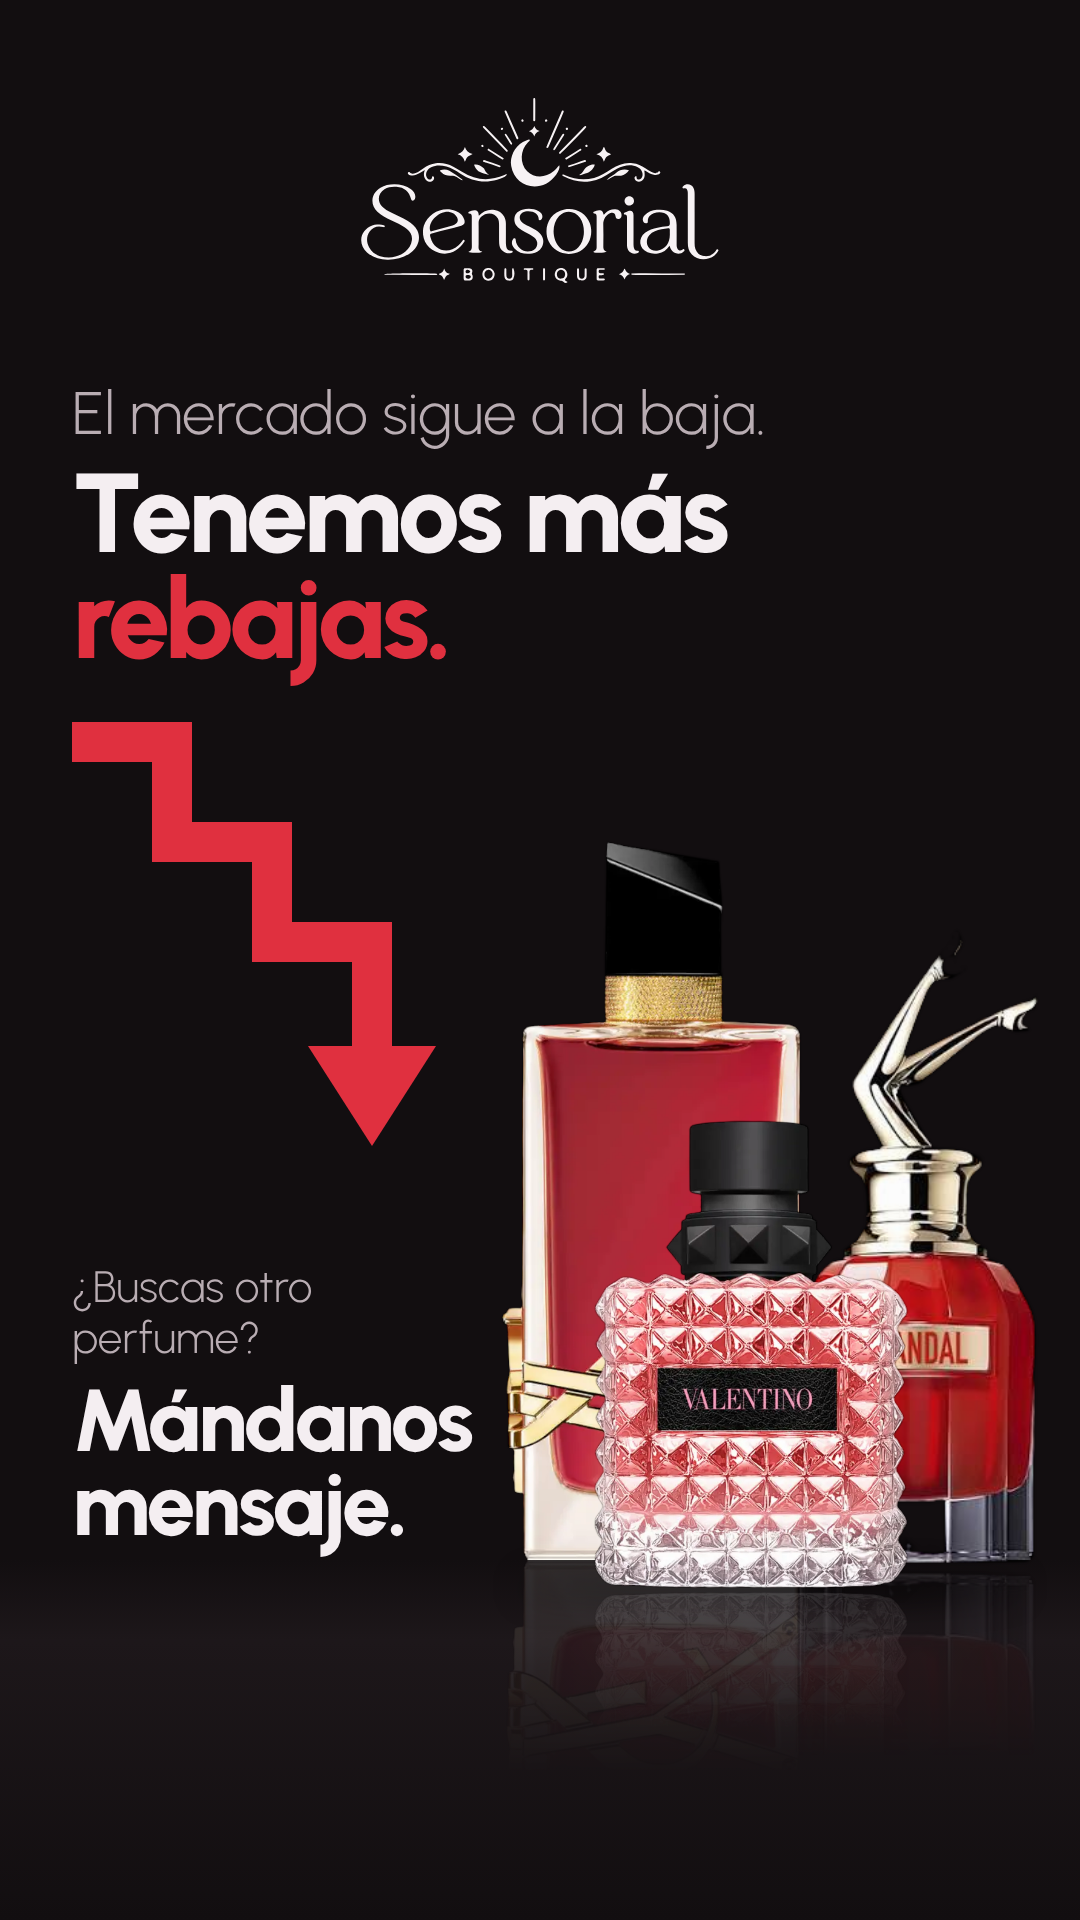
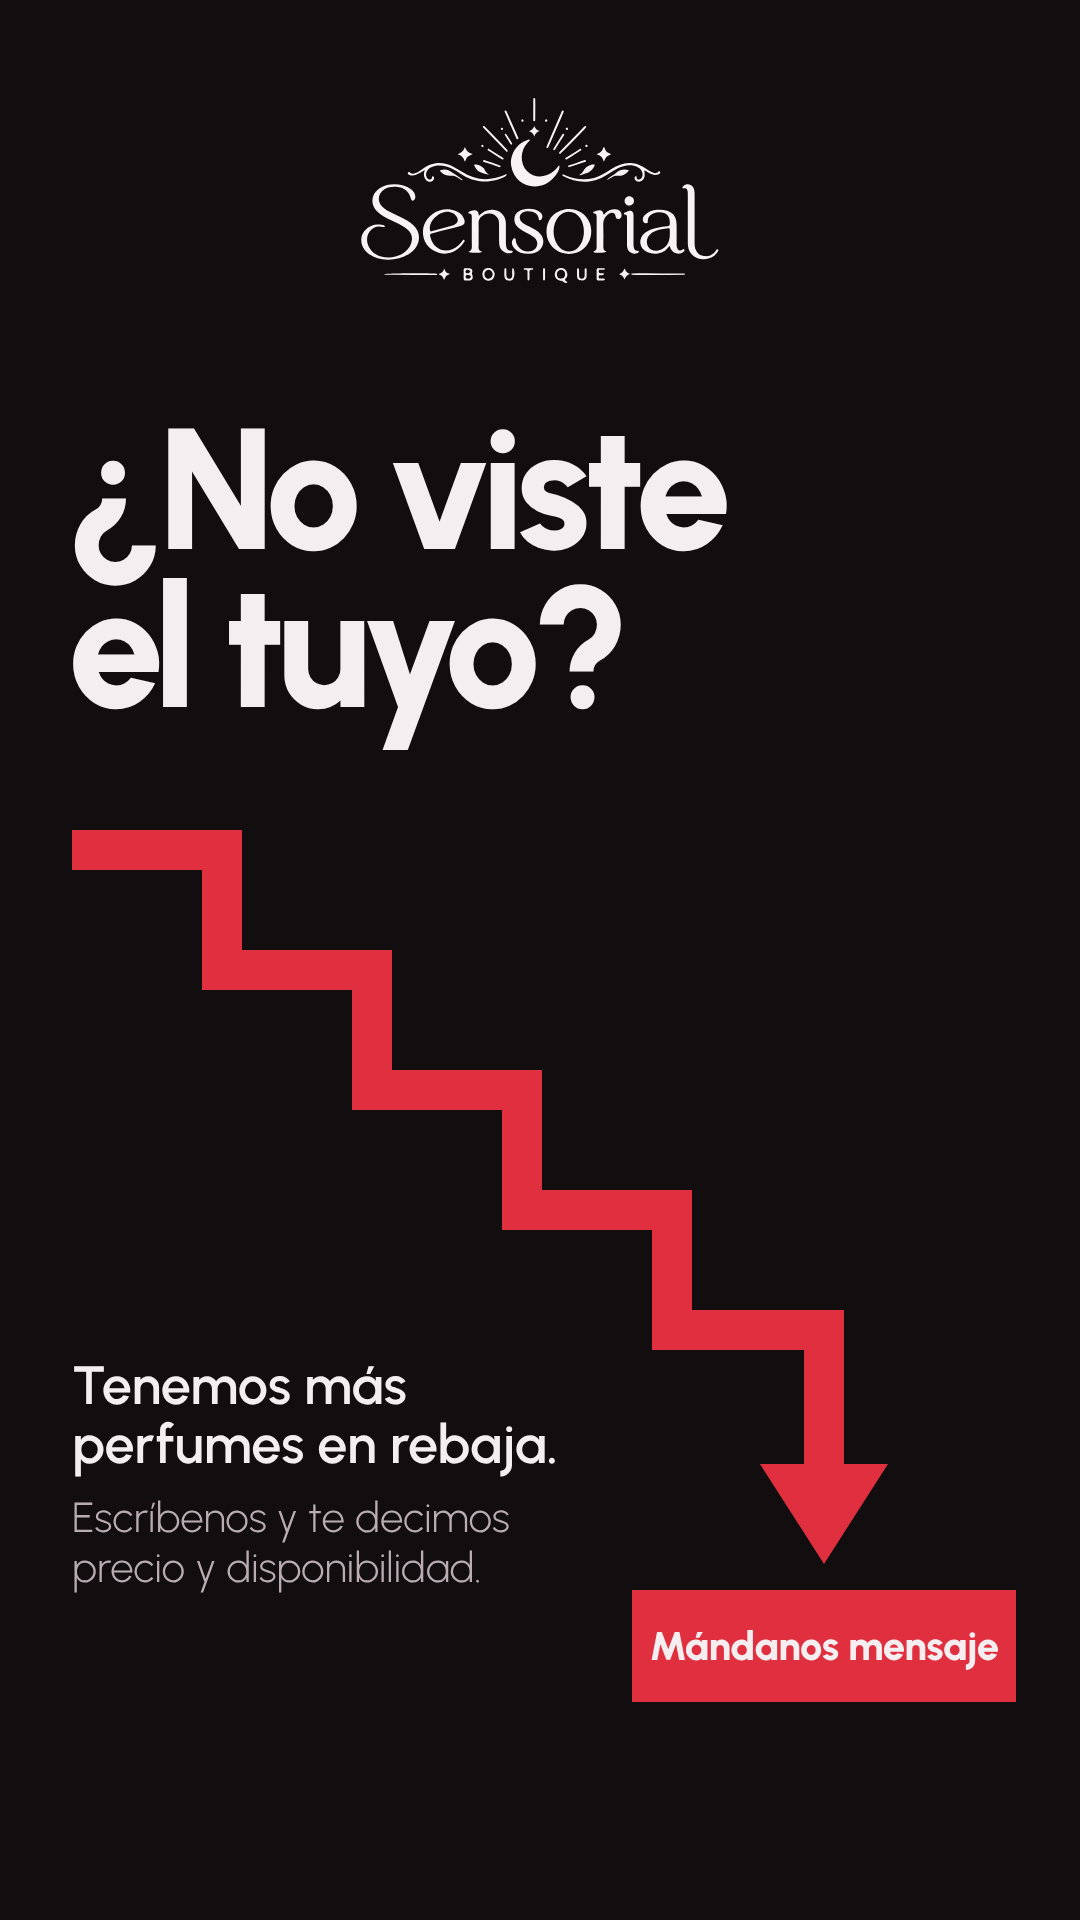
Historia de cierre: cartel tipográfico sin frascos y texto nuevo
Claude-Session: https://claude.ai/code/session_01NZgATazCj1cQaD77VnHbKW

Changed region(s): [[0.0611, 0.1875, 0.9778, 0.9062], [0.55, 0.4375, 0.6417, 0.4688]]

diff --git a/publicidad/mercado-a-la-baja/cierre.html b/publicidad/mercado-a-la-baja/cierre.html
@@ -5,13 +5,12 @@
 <title>Mercado a la baja · cierre</title>
 <link rel="preconnect" href="https://fonts.googleapis.com">
 <link rel="preconnect" href="https://fonts.gstatic.com" crossorigin>
-<link href="https://fonts.googleapis.com/css2?family=Urbanist:wght@300;800&display=block" rel="stylesheet">
+<link href="https://fonts.googleapis.com/css2?family=Urbanist:wght@300;600;800&display=block" rel="stylesheet">
 <style>
-  /* Historia de cierre 1080×1920. Mismo esqueleto que historia.html:
-     logo arriba, titular a la izquierda, escalera roja, frascos de pie con reflejo. */
+  /* Historia de cierre 1080×1920: cartel tipográfico, sin frascos.
+     La escalera cruza la pantalla y termina en el botón para escribir. */
   :root {
     --papel: #120e10;
-    --piso: #1d171a;
     --tinta: #f4eef1;
     --tinta-2: #b9adb3;
     --rojo: #e0303f;
@@ -25,7 +24,7 @@
     width: 1080px;
     height: 1920px;
     overflow: hidden;
-    background: linear-gradient(180deg, var(--papel) 0, var(--papel) 1560px, var(--piso) 1640px, var(--papel) 1920px);
+    background: var(--papel);
     color: var(--tinta);
     font-family: "Urbanist", sans-serif;
   }
@@ -35,82 +34,46 @@
     height: 196px; transform: translateX(-50%);
   }
 
-  .titular { position: absolute; top: 380px; left: 72px; right: 72px; }
-  .titular p { font-weight: 300; font-size: 60px; line-height: 1.1; color: var(--tinta-2); }
-  .titular h1 {
-    margin-top: 14px;
-    font-weight: 800; font-size: 112px; line-height: 0.95; letter-spacing: -0.035em;
+  h1 {
+    position: absolute; top: 410px; left: 68px;
+    font-weight: 800; font-size: 172px; line-height: 0.92; letter-spacing: -0.045em;
   }
-  .titular h1 em { font-style: normal; color: var(--rojo); }
 
   .escalera { position: absolute; left: 0; top: 0; width: 1080px; height: 1920px; }
 
-  /* Los tres frascos juntos sobre el piso: Valentino al frente, YSL y Scandal detrás */
-  .grupo { position: absolute; right: 40px; bottom: 330px; width: 540px; height: 820px; }
-  .grupo::after {
-    content: ""; position: absolute; left: 50%; bottom: -12px;
-    width: 92%; height: 30px; transform: translateX(-50%);
-    border-radius: 50%;
-    background: rgb(0 0 0 / 0.6);
-    filter: blur(16px);
-  }
-  .botella { position: absolute; }
-  .botella img { display: block; height: 100%; width: auto; }
-  .botella img + img {
-    position: absolute; top: 100%; left: 0;
-    transform: scaleY(-1);
-    opacity: 0.14;
-    -webkit-mask-image: linear-gradient(0deg, #000 0%, transparent 30%);
-            mask-image: linear-gradient(0deg, #000 0%, transparent 30%);
-  }
-  .ysl       { left: 0;   bottom: 30px; height: 720px; z-index: 1; }
-  .scandal   { right: 0;  bottom: 22px; height: 640px; z-index: 1; }
-  .valentino { left: 50%; bottom: 0;    height: 470px; z-index: 2; transform: translateX(-56%); }
+  .texto { position: absolute; left: 72px; top: 1356px; width: 540px; }
+  .texto strong { display: block; font-weight: 600; font-size: 54px; line-height: 1.1; }
+  .texto span { display: block; margin-top: 18px; font-weight: 300; font-size: 42px; line-height: 1.2; color: var(--tinta-2); }
 
-  .llamado { position: absolute; left: 72px; width: 410px; top: 1262px; }
-  .llamado p { font-weight: 300; font-size: 44px; line-height: 1.15; color: var(--tinta-2); }
-  .llamado h2 {
-    margin-top: 16px;
-    font-weight: 800; font-size: 88px; line-height: 0.95; letter-spacing: -0.035em;
+  .boton {
+    position: absolute; left: 632px; top: 1590px;
+    width: 384px; height: 112px;
+    display: grid; place-items: center;
+    background: var(--rojo);
+    font-weight: 800; font-size: 40px; letter-spacing: -0.01em;
+    white-space: nowrap;
   }
-  .llamado h2 em { font-style: normal; color: var(--rojo); }
 </style>
 </head>
 <body>
 <div class="anuncio">
   <img class="logo" src="sensorial-logo.svg" alt="Sensorial Boutique">
 
-  <section class="titular">
-    <p>El mercado sigue a la baja.</p>
-    <h1>Tenemos más <em>rebajas.</em></h1>
-  </section>
+  <h1>¿No viste<br>el tuyo?</h1>
 
-  <!-- La escalera baja desde el titular hasta el llamado a escribir -->
+  <!-- Cinco escalones que bajan de izquierda a derecha hasta el botón -->
   <svg class="escalera" viewBox="0 0 1080 1920" aria-hidden="true">
-    <polyline points="72,742 172,742 172,842 272,842 272,942 372,942 372,1052"
+    <polyline points="72,850 222,850 222,970 372,970 372,1090 522,1090 522,1210 672,1210 672,1330 824,1330 824,1470"
       fill="none" stroke="#e0303f" stroke-width="40" stroke-linejoin="miter"/>
-    <path d="M308 1046 H436 L372 1146 Z" fill="#e0303f"/>
+    <path d="M760 1464 H888 L824 1564 Z" fill="#e0303f"/>
   </svg>
 
-  <div class="grupo">
-    <div class="botella ysl">
-      <img src="ysl-libre-berry-crush.png" alt="Yves Saint Laurent Libre Berry Crush">
-      <img src="ysl-libre-berry-crush.png" alt="">
-    </div>
-    <div class="botella scandal">
-      <img src="jpg-scandal-le-parfum.png" alt="Jean Paul Gaultier Scandal Le Parfum">
-      <img src="jpg-scandal-le-parfum.png" alt="">
-    </div>
-    <div class="botella valentino">
-      <img src="valentino-donna-born-in-roma.png" alt="Valentino Donna Born in Roma">
-      <img src="valentino-donna-born-in-roma.png" alt="">
-    </div>
-  </div>
+  <p class="texto">
+    <strong>Tenemos más perfumes en rebaja.</strong>
+    <span>Escríbenos y te decimos precio y disponibilidad.</span>
+  </p>
 
-  <section class="llamado">
-    <p>¿Buscas otro<br>perfume?</p>
-    <h2>Mándanos<br>mensaje.</h2>
-  </section>
+  <div class="boton">Mándanos mensaje</div>
 </div>
 </body>
 </html>
